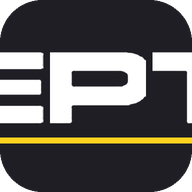
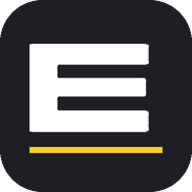
Add files via upload

diff --git a/index.html b/index.html
@@ -194,6 +194,13 @@ html[data-theme=dark] #toast{border:1px solid var(--line);border-left:5px solid 
 html[data-theme=dark] .ov{background:rgba(0,0,0,.7)}
 html[data-theme=dark] .sw{border-color:#bbb}
 html[data-theme=dark] tr.cancel td{color:#8a8a99}
+.drg{cursor:grab;touch-action:none;user-select:none;-webkit-user-select:none;padding:4px 8px;font-size:20px;line-height:1;color:var(--mut,#888);display:inline-block}
+.drg:hover,.drg:focus-visible{color:var(--yellow);outline:none}
+.dragging{opacity:.45}
+tr.dropb td{box-shadow:inset 0 3px 0 var(--yellow)}
+tr.dropa td{box-shadow:inset 0 -3px 0 var(--yellow)}
+.lcard.dropb{box-shadow:0 -4px 0 var(--yellow)}
+.lcard.dropa{box-shadow:0 4px 0 var(--yellow)}
 .thb{background:none;border:0;color:inherit;font:inherit;font-weight:inherit;cursor:pointer;padding:2px 4px;white-space:nowrap;min-height:0}
 .thb:hover{text-decoration:underline}
 .thb:focus-visible{outline:2px solid var(--yellow);outline-offset:1px}
@@ -798,7 +805,8 @@ function vFilamento(){
   const list=S.filamentos.filter(f=>(!FMAT||f.material===FMAT)&&(!FMARCA||(FMARCA==='__none'?!f.marca:f.marca===FMARCA))&&(!FTAG||(f.etiquetas||[]).includes(FTAG))&&(!FALERT||fEstado(f)[0]!=='ok'));
   const valor=S.filamentos.reduce((a,f)=>a+num(f.gramos)/1000*num(f.precio),0),g=S.filamentos.reduce((a,f)=>a+num(f.gramos),0);
   FSEL=new Set([...FSEL].filter(id=>list.some(f=>f.id===id)));
-  const mob=isMob();let h='';const NC=FSM?12:11;
+  const mob=isMob();let h='';const dr=!FSORT.k,NC=(FSM?12:11)+(dr?1:0);
+  const dh=f=>dr?`<span class="drg" tabindex="0" role="button" data-id="${f.id}" aria-label="Mover ${esc(fName(f))}: arrastra o usa las flechas arriba y abajo" title="Arrastra para ordenar" onpointerdown="fdStart(event,'${f.id}')" onkeydown="fdKey(event,'${f.id}')">⠿</span>`:'';
   const cb=f=>FSM?`<input type="checkbox" class="selc" aria-label="Seleccionar ${esc(fName(f))}" ${FSEL.has(f.id)?'checked':''} onchange="fselTog('${f.id}')">`:'';
   const th=(k,cls)=>{const on=FSORT.k===k,isN=FCOLS[k][1]==='n',ar=on?(fAsc()?' ▲':' ▼'):'';
     return`<th class="${cls||''}" aria-sort="${on?(fAsc()?'ascending':'descending'):'none'}"><button type="button" class="thb" onclick="fSort('${k}')" title="Ordenar por ${FCOLS[k][0].toLowerCase()}: ${isN?'de más a menos':'A → Z'}, al revés, y orden original">${FCOLS[k][0]}${ar}</button></th>`};
@@ -807,11 +815,11 @@ function vFilamento(){
     h+=mob?`<div class="mband">${esc(m)}</div>`:`<tr class="band"><td colspan="${NC}">${esc(m)}</td></tr>`;
     it.forEach(f=>{const[k,t]=fEstado(f);
       const q=esc((fName(f)+' '+f.marca+' '+(f.etiquetas||[]).join(' ')+' '+f.material).toLowerCase());
-      h+=mob?`<div class="lcard ${FSEL.has(f.id)?'selected':''}" data-q="${q}" data-id="${f.id}"><div class="lr"><div class="cnm">${cb(f)}${fSw(f,1)}<span><b>${esc(f.color||'(sin color)')}</b><span class="hint">${f.ref?'Ref. '+esc(f.ref)+' · ':''}${fColName(f)} · ${f.marca?esc(f.marca):'Sin marca'}</span></span></div>${chip(k,t)}</div>
+      h+=mob?`<div class="lcard ${FSEL.has(f.id)?'selected':''}" data-q="${q}" data-id="${f.id}" data-mat="${esc(f.material)}"><div class="lr"><div class="cnm">${dh(f)}${cb(f)}${fSw(f,1)}<span><b>${esc(f.color||'(sin color)')}</b><span class="hint">${f.ref?'Ref. '+esc(f.ref)+' · ':''}${fColName(f)} · ${f.marca?esc(f.marca):'Sin marca'}</span></span></div>${chip(k,t)}</div>
         <div style="margin-top:6px">${tagChips(f)||'<span class="hint">sin etiquetas</span>'}</div>
         <div class="rst" style="margin:8px 0"><b>${rl(num(f.gramos)/1000)}</b><span class="hint">${n0(f.gramos)} g</span></div>
         <div class="lr"><span class="hint">Mín. ${num(f.minimo)||'–'} · ${num(f.precio)?eur(f.precio):'sin precio'}</span><span><button class="ico" onclick="openFil('${f.id}')">Editar</button> <button class="ico" onclick="filPlus('${f.id}')">+1 rollo</button></span></div></div>`
-      :`<tr data-q="${q}" data-id="${f.id}" class="${FSEL.has(f.id)?'selected':''}">${FSM?`<td>${cb(f)}</td>`:''}<td>${tagChips(f)}</td><td>${esc(f.marca)}</td><td class="l" style="white-space:normal;min-width:170px"><div class="cnm">${fSw(f,1)}<span><b>${esc(f.color||'(sin color)')}</b><span class="hint">${fColName(f)}</span></span></div></td><td class="l">${f.ref?esc(f.ref):'<span class="hint">–</span>'}</td>
+      :`<tr data-q="${q}" data-id="${f.id}" data-mat="${esc(f.material)}" class="${FSEL.has(f.id)?'selected':''}">${dr?`<td>${dh(f)}</td>`:''}${FSM?`<td>${cb(f)}</td>`:''}<td>${tagChips(f)}</td><td>${esc(f.marca)}</td><td class="l" style="white-space:normal;min-width:170px"><div class="cnm">${fSw(f,1)}<span><b>${esc(f.color||'(sin color)')}</b><span class="hint">${fColName(f)}</span></span></div></td><td class="l">${f.ref?esc(f.ref):'<span class="hint">–</span>'}</td>
       <td class="l"><div class="rst"><b>${rl(num(f.gramos)/1000)}</b><span class="hint">${n0(f.gramos)} g</span></div></td>
       <td>${num(f.comprados)}</td><td>${num(f.minimo)||'–'}</td><td>${num(f.precio)?eur(f.precio):'<span class="hint">sin precio</span>'}</td><td>${eur(num(f.gramos)/1000*num(f.precio))}</td><td>${chip(k,t)}</td>
       <td style="white-space:nowrap"><button class="ico" onclick="openFil('${f.id}')">Editar</button> <button class="ico" title="Añadir un rollo nuevo (+1000 g)" onclick="filPlus('${f.id}')">+1 rollo</button></td></tr>`});
@@ -828,9 +836,38 @@ function vFilamento(){
   </div>
   <div class="bar" style="flex-wrap:nowrap;overflow-x:auto">${['',...matList()].map(m=>`<button class="btn ${FMAT===m?'':'ghost'}" style="flex:0 0 auto" onclick="FMAT='${m}';render()">${m||'Todos'}</button>`).join('')}</div>
   ${mob?h+`<div class="lcard tot"><div class="lr"><b>TOTAL</b><b>${n0(g)} g · ${eur(valor)}</b></div></div>`
-  :`<div class="tw"><table><tr>${FSM?'<th><input type="checkbox" class="selc" id="selall" title="Seleccionar todos los visibles" aria-label="Seleccionar todos los visibles" onchange="fselAll(this.checked)"></th>':''}${th('tags')}${th('marca')}${th('color','l')}${th('ref','l')}${th('rest','l')}${th('comp')}${th('min')}${th('precio')}${th('valor')}${th('estado')}<th></th></tr>${h||`<tr><td colspan="${NC}" class="hint">Sin resultados.</td></tr>`}
-  <tr class="tot"><td colspan="${FSM?5:4}" class="l">TOTAL</td><td class="l">${n0(g)} g (${rl(g/1000)})</td><td colspan="3"></td><td>${eur(valor)}</td><td colspan="2"></td></tr></table></div>`}
-  ${FSM?fselBar(list.length):''}${cpHist()}<p class="hint">Mostrando ${list.length} de ${S.filamentos.length} filamentos${(FMAT||FMARCA||FTAG||FALERT)?' (con filtros)':''}.${FSORT.k?' Orden: '+fSortTxt()+'.':''}${mob?'':' Pulsa el título de una columna para ordenar: 1ª vez A → Z (o de más a menos), 2ª al revés, 3ª vuelve al orden original.'}</p><p class="legend">Estados: ● OK · ▲ BAJO (en el mínimo o por debajo) · ✖ AGOTADO (0 g).</p>`;
+  :`<div class="tw"><table><tr>${dr?'<th></th>':''}${FSM?'<th><input type="checkbox" class="selc" id="selall" title="Seleccionar todos los visibles" aria-label="Seleccionar todos los visibles" onchange="fselAll(this.checked)"></th>':''}${th('tags')}${th('marca')}${th('color','l')}${th('ref','l')}${th('rest','l')}${th('comp')}${th('min')}${th('precio')}${th('valor')}${th('estado')}<th></th></tr>${h||`<tr><td colspan="${NC}" class="hint">Sin resultados.</td></tr>`}
+  <tr class="tot"><td colspan="${(FSM?5:4)+(dr?1:0)}" class="l">TOTAL</td><td class="l">${n0(g)} g (${rl(g/1000)})</td><td colspan="3"></td><td>${eur(valor)}</td><td colspan="2"></td></tr></table></div>`}
+  ${FSM?fselBar(list.length):''}${cpHist()}<p class="hint">Mostrando ${list.length} de ${S.filamentos.length} filamentos${(FMAT||FMARCA||FTAG||FALERT)?' (con filtros)':''}.${FSORT.k?' Orden: '+fSortTxt()+'.':''}${dr?' Arrastra ⠿ (o usa las flechas ↑ ↓ con el foco en él) para ordenar a tu gusto: ese es tu orden por defecto.':' Para arrastrar, quita el orden de columna (pulsa el título hasta que no tenga flecha).'}${mob?'':' Pulsa el título de una columna para ordenar: 1ª vez A → Z (o de más a menos), 2ª al revés, 3ª vuelve al orden original.'}</p><p class="legend">Estados: ● OK · ▲ BAJO (en el mínimo o por debajo) · ✖ AGOTADO (0 g).</p>`;
+}
+let FD=null;
+function fdStart(e,id){
+  if(e.button>0)return;e.preventDefault();
+  const row=e.currentTarget.closest('tr[data-id],.lcard[data-id]');if(!row)return;
+  FD={id,mat:row.dataset.mat,row,t:null,after:false,y:e.clientY};row.classList.add('dragging');
+  document.addEventListener('pointermove',fdMove);document.addEventListener('pointerup',fdEnd);document.addEventListener('pointercancel',fdCancel);fdScroll();
+}
+function fdClear(){document.querySelectorAll('.dropb,.dropa').forEach(x=>x.classList.remove('dropb','dropa'))}
+function fdMove(e){
+  if(!FD)return;FD.y=e.clientY;fdClear();
+  const el=document.elementFromPoint(e.clientX,e.clientY),t=el&&el.closest('tr[data-id],.lcard[data-id]');
+  if(!t||t.dataset.id===FD.id||t.dataset.mat!==FD.mat){FD.t=null;return}
+  const r=t.getBoundingClientRect();FD.t=t.dataset.id;FD.after=e.clientY>r.top+r.height/2;t.classList.add(FD.after?'dropa':'dropb');
+}
+function fdScroll(){if(!FD)return;const y=FD.y,h=innerHeight;if(y<70)scrollBy(0,-14);else if(y>h-70)scrollBy(0,14);requestAnimationFrame(fdScroll)}
+function fdStop(){document.removeEventListener('pointermove',fdMove);document.removeEventListener('pointerup',fdEnd);document.removeEventListener('pointercancel',fdCancel);fdClear();if(FD)FD.row.classList.remove('dragging')}
+function fdCancel(){fdStop();FD=null}
+function fdEnd(){const d=FD;fdStop();FD=null;if(d&&d.t)fMove(d.id,d.t,d.after)}
+function fMove(id,tid,after){
+  const arr=S.filamentos,i=arr.findIndex(x=>x.id===id);if(i<0)return;const[it]=arr.splice(i,1);let j=arr.findIndex(x=>x.id===tid);if(j<0){arr.splice(i,0,it);return}
+  if(after)j++;arr.splice(j,0,it);save();render();
+}
+function fdKey(e,id){
+  if(e.key!=='ArrowUp'&&e.key!=='ArrowDown')return;e.preventDefault();
+  const row=e.currentTarget.closest('tr[data-id],.lcard[data-id]'),up=e.key==='ArrowUp';let n=up?row.previousElementSibling:row.nextElementSibling;
+  while(n&&!(n.dataset&&n.dataset.id))n=up?n.previousElementSibling:n.nextElementSibling;
+  if(!n||n.dataset.mat!==row.dataset.mat)return;
+  fMove(id,n.dataset.id,!up);const h=document.querySelector('.drg[data-id="'+id+'"]');if(h)h.focus();
 }
 function fSearch(v){v=v.toLowerCase();document.querySelectorAll('[data-q]').forEach(r=>{const show=r.dataset.q.includes(v);r.style.display=show?'':'none';if(!show&&r.dataset.id&&FSEL.has(r.dataset.id)){FSEL.delete(r.dataset.id);const c=r.querySelector('.selc');if(c)c.checked=false;r.classList.remove('selected')}});fselUpd()}
 function fselMode(){FSM=!FSM;FSEL.clear();render()}
@@ -1009,8 +1046,8 @@ async function importJSON(file){
 function resetAll(){ask('Volver a los datos iniciales','<p>Se borrarán todos los cambios (impresiones, pedidos, stock) y se cargarán de nuevo los datos que había en tu Excel. Exporta una copia antes si quieres conservarlos.</p>',()=>{const sn=snapU();S=fix(JSON.parse(JSON.stringify(SEED)));freezeOrders();save();toastU('Datos iniciales cargados.',sn);render()},'Restaurar')}
 
 /* ---------- sincronización con Supabase (sin login, con clave de acceso) ---------- */
-const APP_VERSION='1.09';
-const APP_NOTAS='v1.09 · Enlace de conexión para sincronizar un navegador o dispositivo nuevo sin escribir los datos. v1.08 · App instalable (icono EPT, funciona sin conexión); filtros de material en su propia fila. v1.07 · Color y referencia por separado; columnas del filamento ordenables; botón Deshacer al borrar; el coste de cada pedido queda fijo; Panel filtrable por periodo; gastos con fecha. v1.06 · Selección múltiple y borrado en bloque de filamentos; arreglos de sincronización y de varias pestañas. v1.05 · Marca como lista desplegable. v1.04 · Pedidos con varios productos; el descuento y el precio de cada pedido cuentan en el beneficio. v1.03 · Color en muestra redondeada; Restante muestra rollos y gramos. v1.02 · La barra de stock ya no depende del total comprado. v1.01 · Logo ELPUTORIDER, nuevo orden del menú, registrar compras de filamento, banda de color en la tabla. (v1.1: sincronización, etiquetas, color visual.)';
+const APP_VERSION='1.10';
+const APP_NOTAS='v1.10 · Icono solo con la E; arrastrar filamentos para ordenarlos a tu gusto (orden por defecto). v1.09 · Enlace de conexión para sincronizar un navegador o dispositivo nuevo sin escribir los datos. v1.08 · App instalable (icono EPT, funciona sin conexión); filtros de material en su propia fila. v1.07 · Color y referencia por separado; columnas del filamento ordenables; botón Deshacer al borrar; el coste de cada pedido queda fijo; Panel filtrable por periodo; gastos con fecha. v1.06 · Selección múltiple y borrado en bloque de filamentos; arreglos de sincronización y de varias pestañas. v1.05 · Marca como lista desplegable. v1.04 · Pedidos con varios productos; el descuento y el precio de cada pedido cuentan en el beneficio. v1.03 · Color en muestra redondeada; Restante muestra rollos y gramos. v1.02 · La barra de stock ya no depende del total comprado. v1.01 · Logo ELPUTORIDER, nuevo orden del menú, registrar compras de filamento, banda de color en la tabla. (v1.1: sincronización, etiquetas, color visual.)';
 const SYNC_LS='ept_sync_v1';
 let SY=(()=>{try{return JSON.parse(localStorage.getItem(SYNC_LS))||{}}catch(e){return{}}})();
 let SYST=null,SYMSG='',SYBUSY=false,syTimer=null;

diff --git a/sw.js b/sw.js
@@ -1,5 +1,5 @@
 /* EPTaller: funciona sin conexión. Con red usa siempre la versión nueva; sin red, la última guardada. */
-const CACHE='eptaller-v1.09';
+const CACHE='eptaller-v1.10';
 const FILES=['./','index.html','manifest.webmanifest','icon-192.png','icon-512.png','icon-maskable-512.png','apple-touch-icon.png'];
 self.addEventListener('install',e=>{e.waitUntil(caches.open(CACHE).then(c=>c.addAll(FILES)).then(()=>self.skipWaiting()))});
 self.addEventListener('activate',e=>{e.waitUntil(caches.keys().then(ks=>Promise.all(ks.filter(k=>k!==CACHE).map(k=>caches.delete(k)))).then(()=>self.clients.claim()))});
